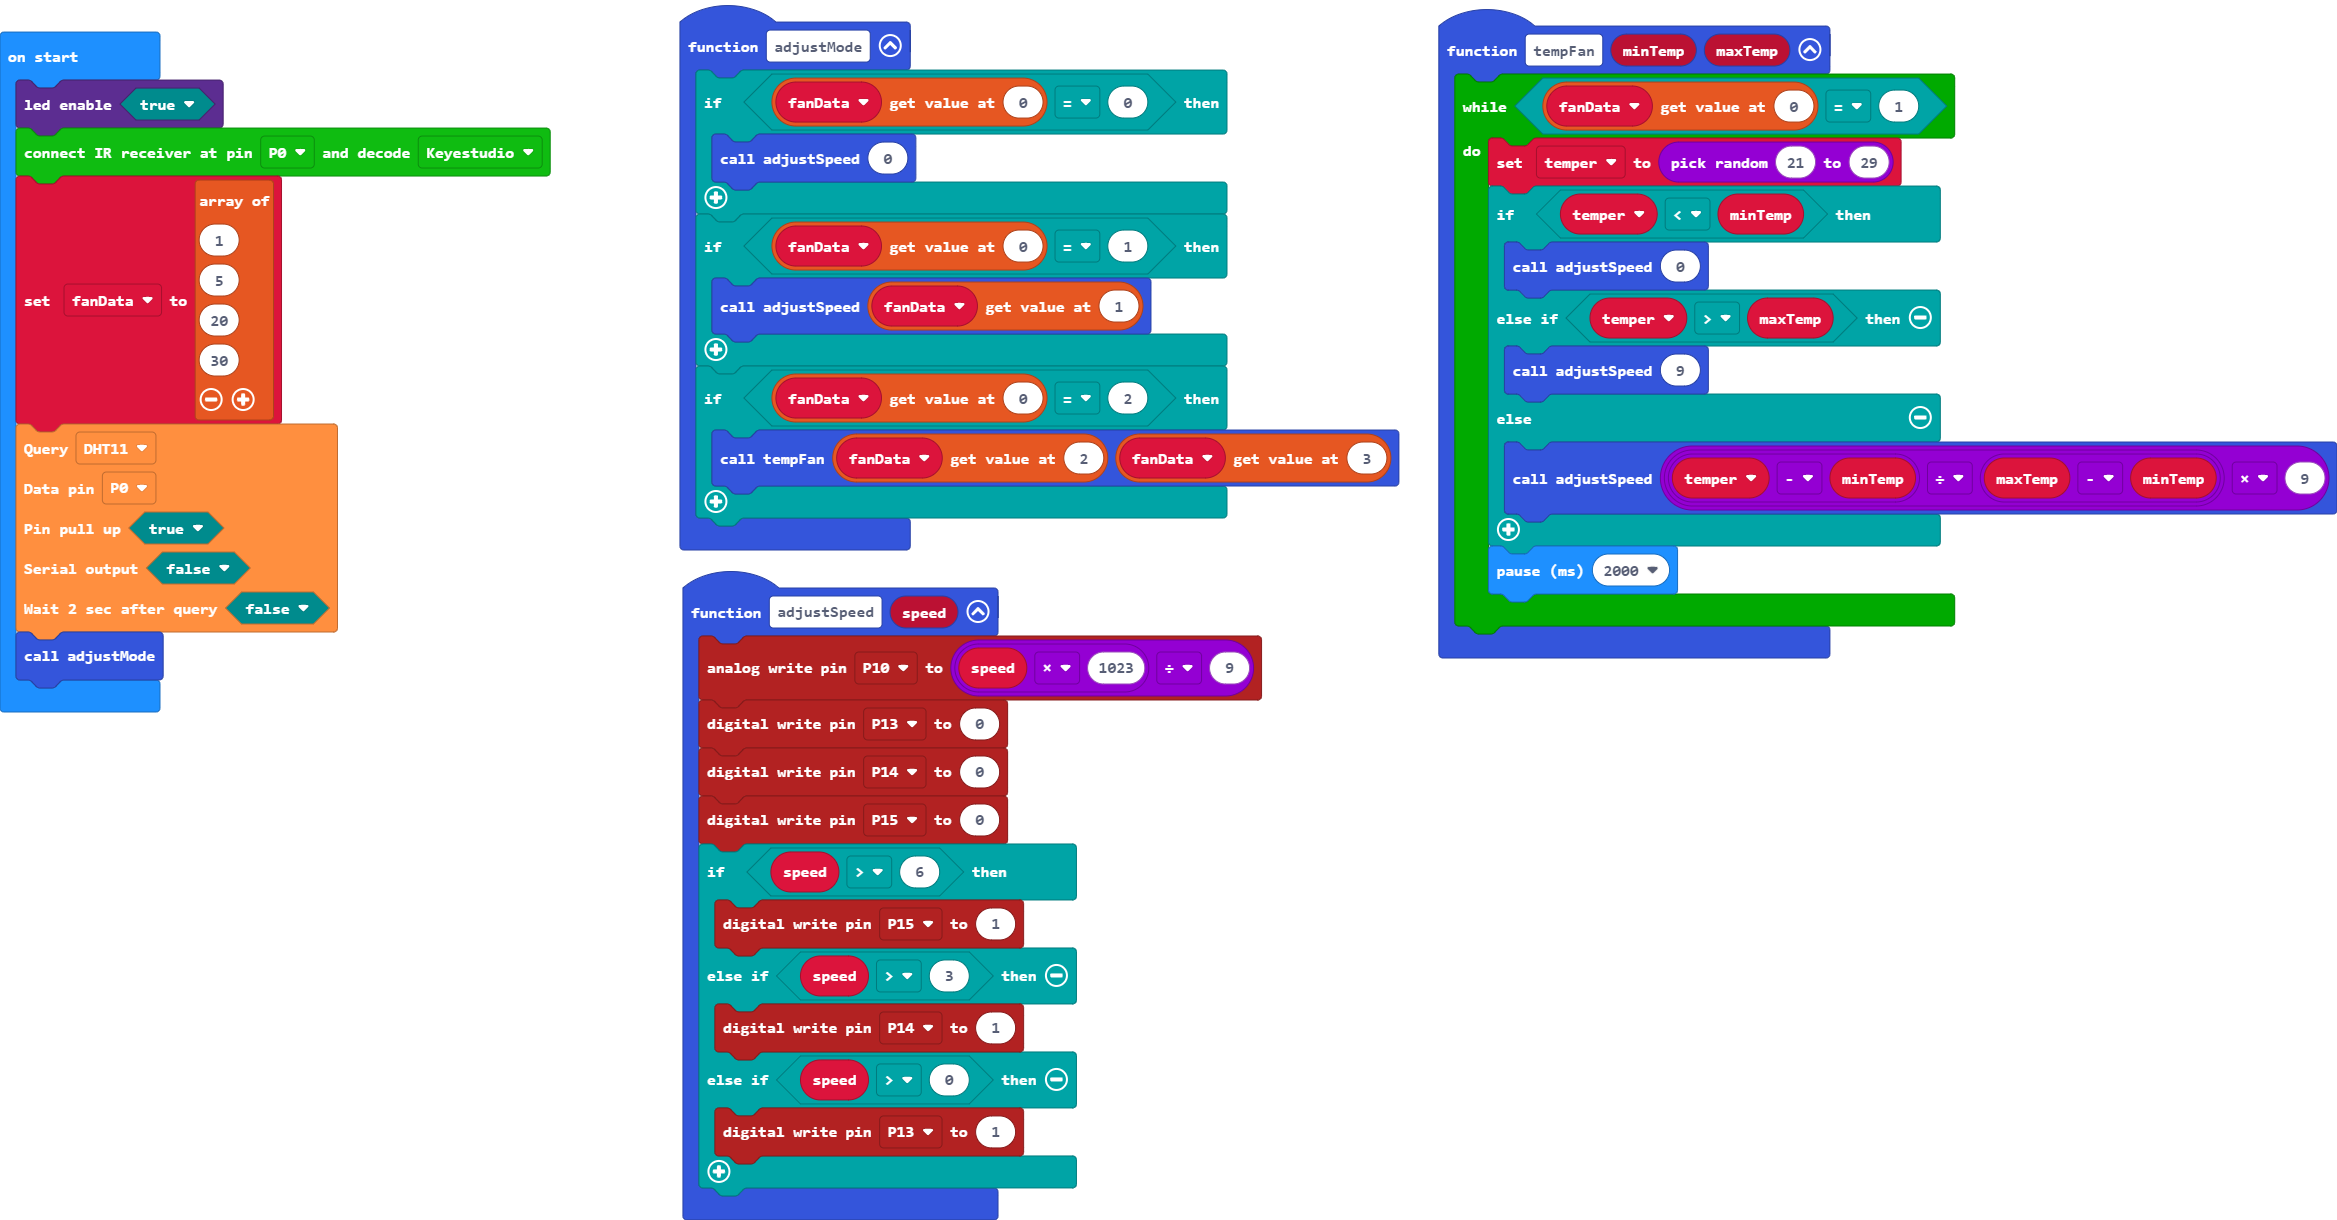
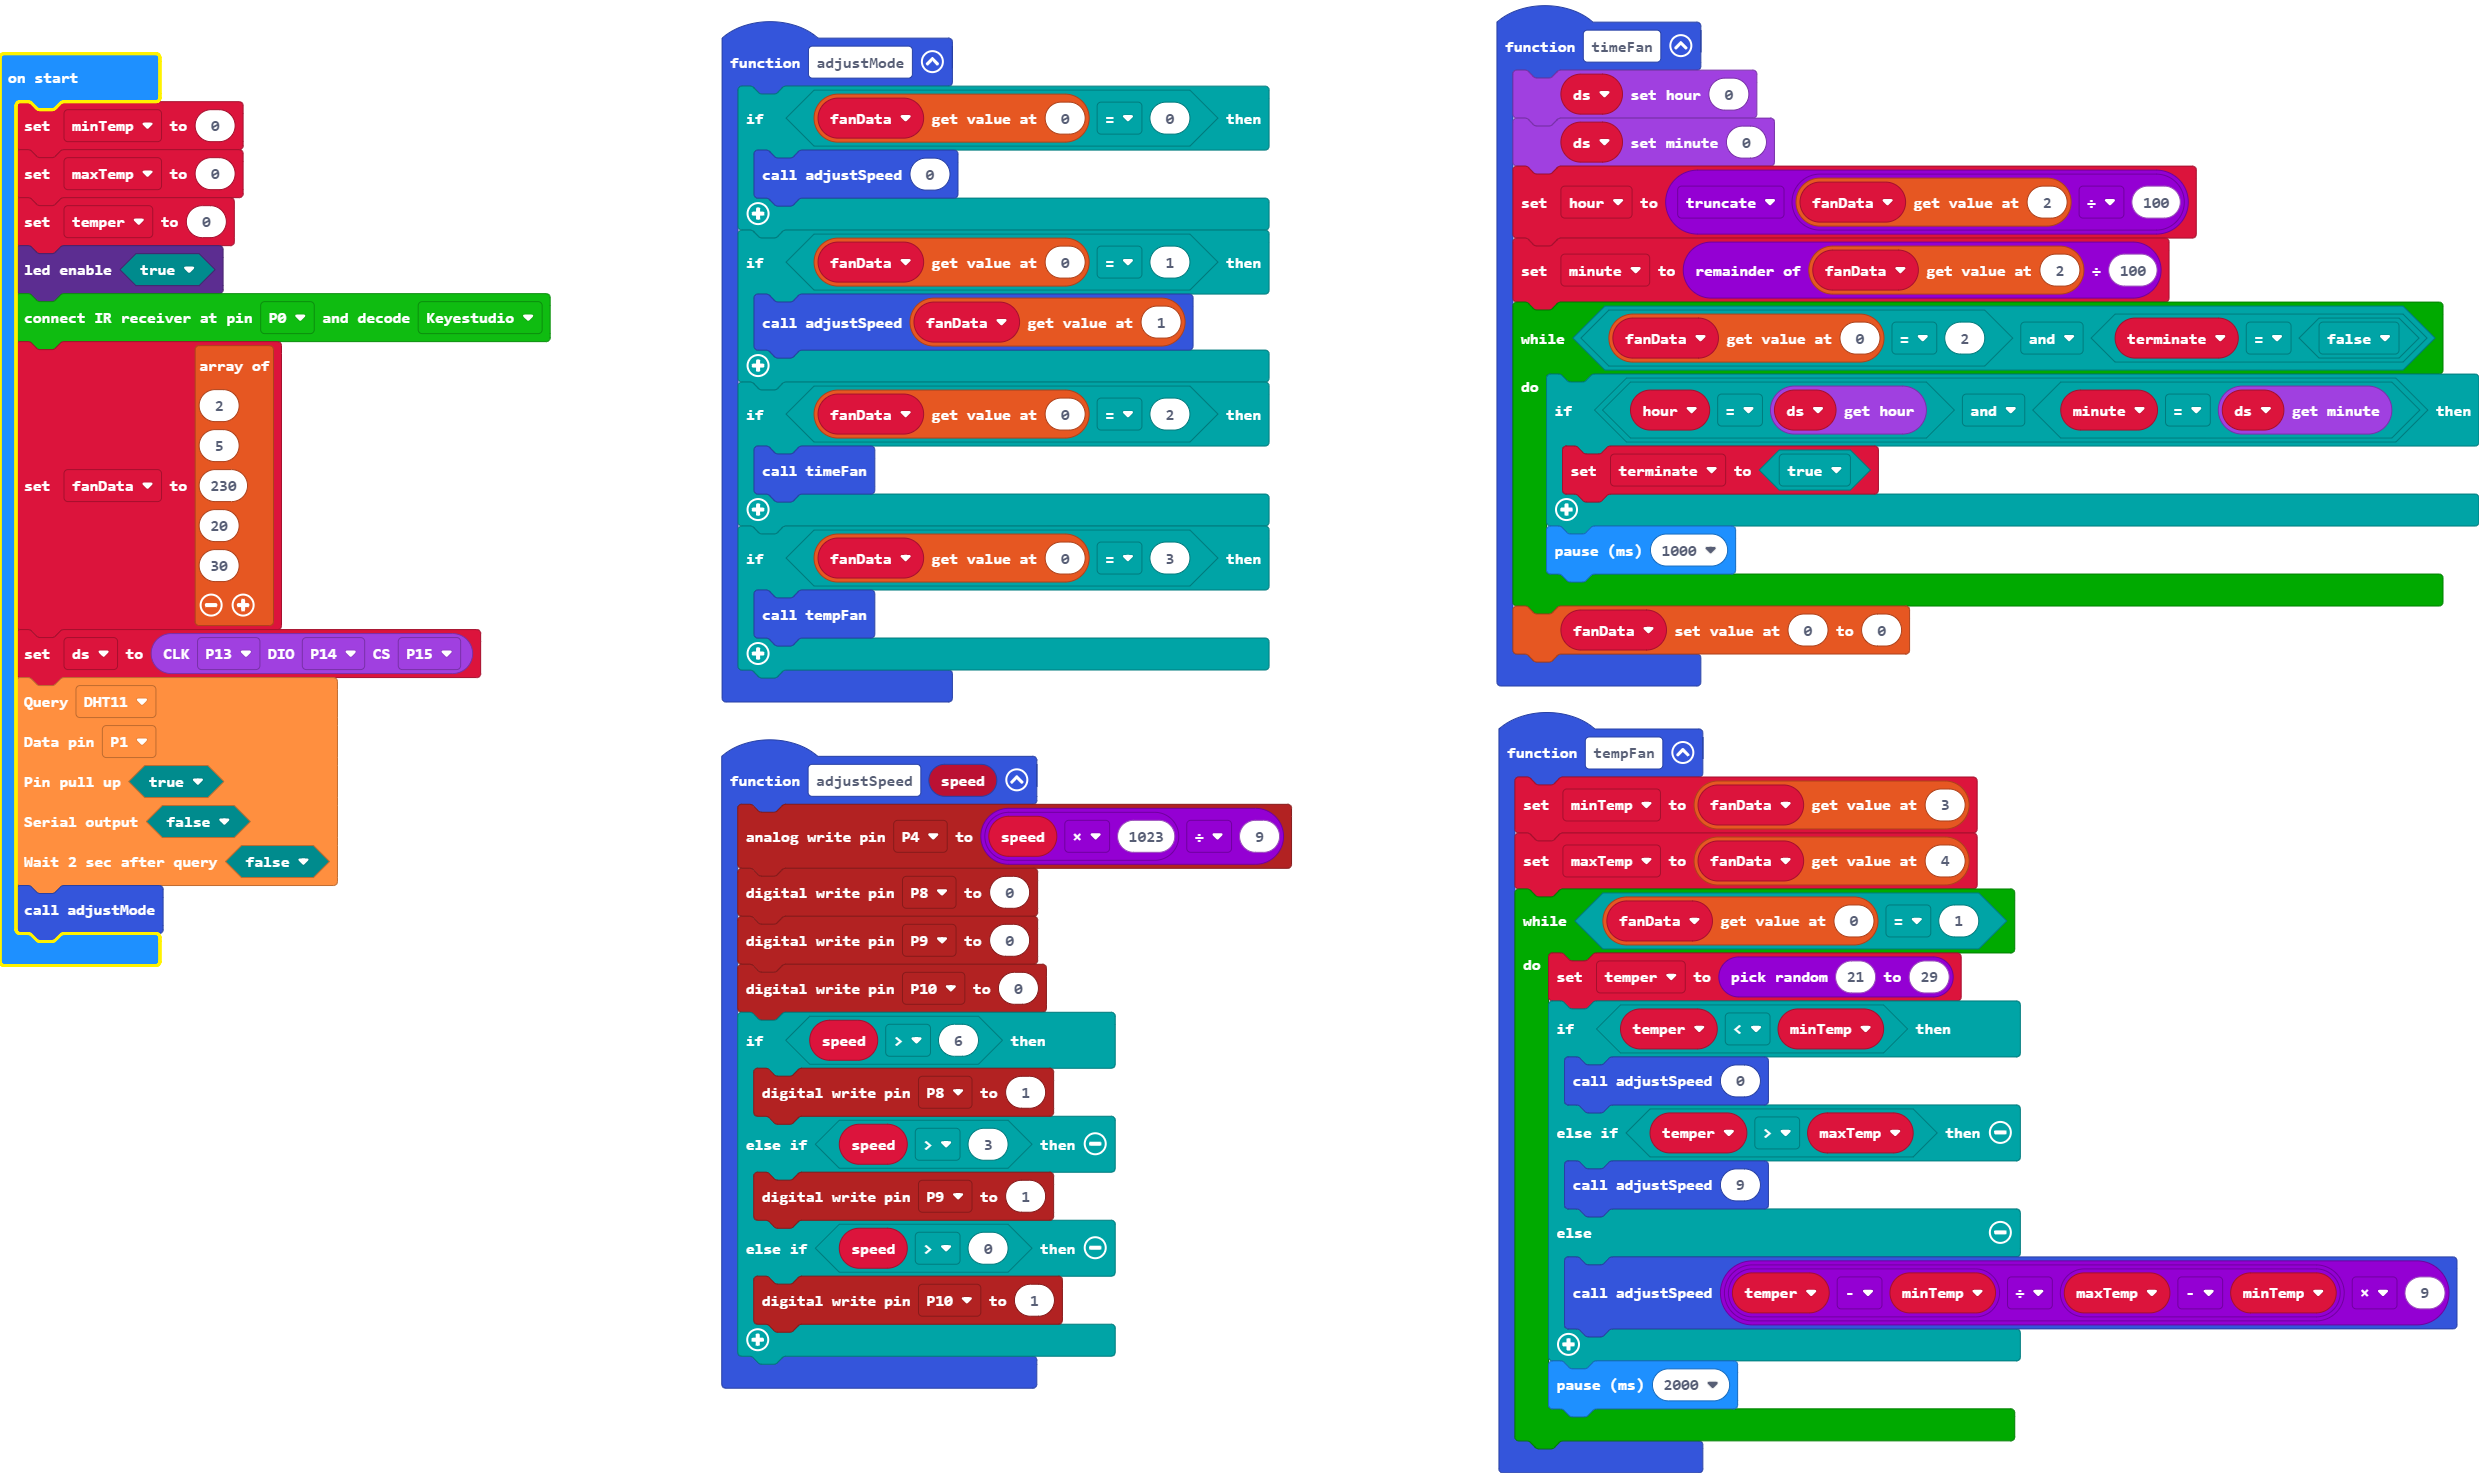
Update pxt.json, main.blocks, main.ts, main.py

diff --git a/main.ts b/main.ts
@@ -1,4 +1,6 @@
-function tempFan (minTemp: number, maxTemp: number) {
+function tempFan () {
+    minTemp = fanData[3]
+    maxTemp = fanData[4]
     while (fanData[0] == 1) {
         temper = randint(21, 29)
         if (temper < minTemp) {
@@ -19,35 +21,62 @@ function adjustMode () {
         adjustSpeed(fanData[1])
     }
     if (fanData[0] == 2) {
-        tempFan(fanData[2], fanData[3])
+        timeFan()
     }
+    if (fanData[0] == 3) {
+        tempFan()
+    }
+}
+function timeFan () {
+    ds.setHour(0)
+    ds.setMinute(0)
+    hour = Math.trunc(fanData[2] / 100)
+    minute = fanData[2] % 100
+    while (fanData[0] == 2 && terminate == false) {
+        if (hour == ds.getHour() && minute == ds.getMinute()) {
+            terminate = true
+        }
+        basic.pause(1000)
+    }
+    fanData[0] = 0
 }
 function adjustSpeed (speed: number) {
-    pins.analogWritePin(AnalogPin.P10, speed * 1023 / 9)
-    pins.digitalWritePin(DigitalPin.P13, 0)
-    pins.digitalWritePin(DigitalPin.P14, 0)
-    pins.digitalWritePin(DigitalPin.P15, 0)
+    pins.analogWritePin(AnalogPin.P4, speed * 1023 / 9)
+    pins.digitalWritePin(DigitalPin.P8, 0)
+    pins.digitalWritePin(DigitalPin.P9, 0)
+    pins.digitalWritePin(DigitalPin.P10, 0)
     if (speed > 6) {
-        pins.digitalWritePin(DigitalPin.P15, 1)
+        pins.digitalWritePin(DigitalPin.P8, 1)
     } else if (speed > 3) {
-        pins.digitalWritePin(DigitalPin.P14, 1)
+        pins.digitalWritePin(DigitalPin.P9, 1)
     } else if (speed > 0) {
-        pins.digitalWritePin(DigitalPin.P13, 1)
+        pins.digitalWritePin(DigitalPin.P10, 1)
     }
 }
-let temper = 0
+let terminate = false
+let minute = 0
+let hour = 0
+let ds: DS1302.DS1302RTC = null
 let fanData: number[] = []
+let temper = 0
+let maxTemp = 0
+let minTemp = 0
+minTemp = 0
+maxTemp = 0
+temper = 0
 led.enable(true)
 makerbit.connectIrReceiver(DigitalPin.P0, IrProtocol.Keyestudio)
 fanData = [
-1,
+2,
 5,
+230,
 20,
 30
 ]
+ds = DS1302.create(DigitalPin.P13, DigitalPin.P14, DigitalPin.P15)
 dht11_dht22.queryData(
 DHTtype.DHT11,
-DigitalPin.P0,
+DigitalPin.P1,
 true,
 false,
 false

diff --git a/main.py b/main.py
@@ -1,5 +1,7 @@
-def tempFan(minTemp: number, maxTemp: number):
-    global temper
+def tempFan():
+    global minTemp, maxTemp, temper
+    minTemp = fanData[3]
+    maxTemp = fanData[4]
     while fanData[0] == 1:
         temper = randint(21, 29)
         if temper < minTemp:
@@ -9,34 +11,51 @@ def tempFan(minTemp: number, maxTemp: number):
         else:
             adjustSpeed((temper - minTemp) / (maxTemp - minTemp) * 9)
         basic.pause(2000)
-
-def on_button_pressed_a():
-    fanData[0] = 0
-    adjustMode()
-input.on_button_pressed(Button.A, on_button_pressed_a)
-
 def adjustMode():
     if fanData[0] == 0:
         adjustSpeed(0)
     if fanData[0] == 1:
-        tempFan(fanData[2], fanData[3])
-    if fanData[0] == 2:
         adjustSpeed(fanData[1])
+    if fanData[0] == 2:
+        timeFan()
+    if fanData[0] == 3:
+        tempFan()
+def timeFan():
+    global hour, minute
+    ds.set_hour(0)
+    ds.set_minute(0)
+    hour = int(fanData[2] / 100)
+    minute = fanData[2] % 100
+    terminate = False
+    while fanData[0] == 2 and terminate == False:
+        if(hour == ds.get_hour() and minute == ds.get_minute()):
+            terminate = True
+        basic.pause(1000)
+    fanData[0] = 0
 def adjustSpeed(speed: number):
-    pins.analog_write_pin(AnalogPin.P10, speed * 1023 / 9)
-    pins.digital_write_pin(DigitalPin.P13, 0)
-    pins.digital_write_pin(DigitalPin.P14, 0)
-    pins.digital_write_pin(DigitalPin.P15, 0)
+    pins.analog_write_pin(AnalogPin.P4, speed * 1023 / 9)
+    pins.digital_write_pin(DigitalPin.P8, 0)
+    pins.digital_write_pin(DigitalPin.P9, 0)
+    pins.digital_write_pin(DigitalPin.P10, 0)
     if speed > 6:
-        pins.digital_write_pin(DigitalPin.P15, 1)
+        pins.digital_write_pin(DigitalPin.P8, 1)
     elif speed > 3:
-        pins.digital_write_pin(DigitalPin.P14, 1)
+        pins.digital_write_pin(DigitalPin.P9, 1)
     elif speed > 0:
-        pins.digital_write_pin(DigitalPin.P13, 1)
-temper = 0
+        pins.digital_write_pin(DigitalPin.P10, 1)
+minute = 0
+hour = 0
+ds: DS1302.DS1302RTC = None
 fanData: List[number] = []
+temper = 0
+maxTemp = 0
+minTemp = 0
+minTemp = 0
+maxTemp = 0
+temper = 0
 led.enable(True)
 makerbit.connect_ir_receiver(DigitalPin.P0, IrProtocol.KEYESTUDIO)
-fanData = [1, 9, 20, 30]
-dht11_dht22.query_data(DHTtype.DHT11, DigitalPin.P0, True, False, False)
+fanData = [2, 5, 230, 20, 30]
+ds = DS1302.create(DigitalPin.P13, DigitalPin.P14, DigitalPin.P15)
+dht11_dht22.query_data(DHTtype.DHT11, DigitalPin.P1, True, False, False)
 adjustMode()
